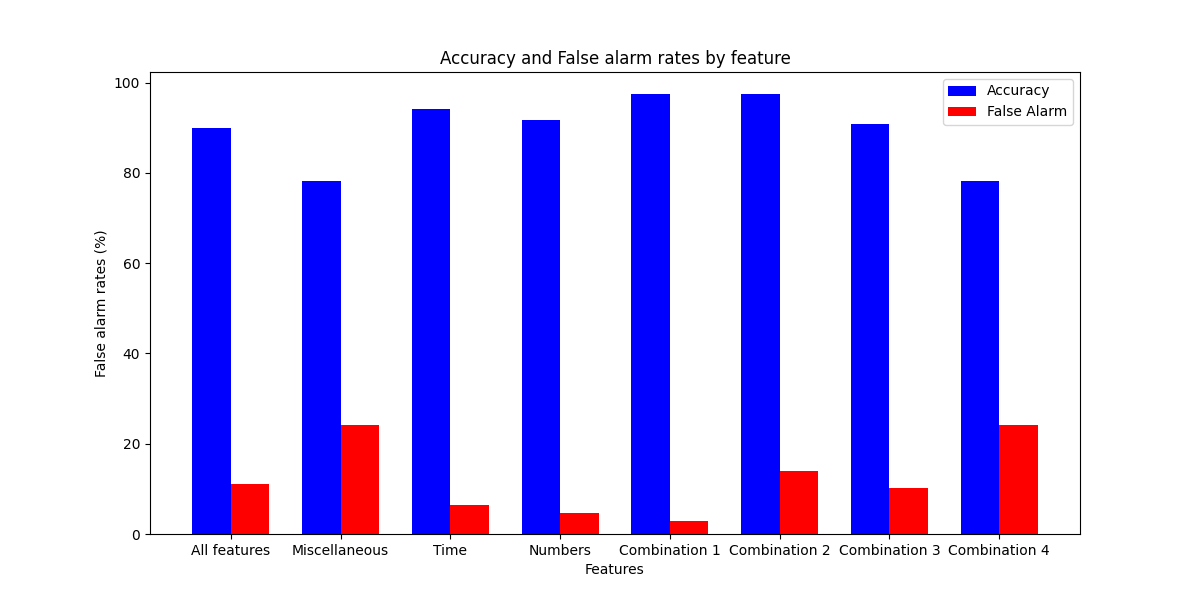
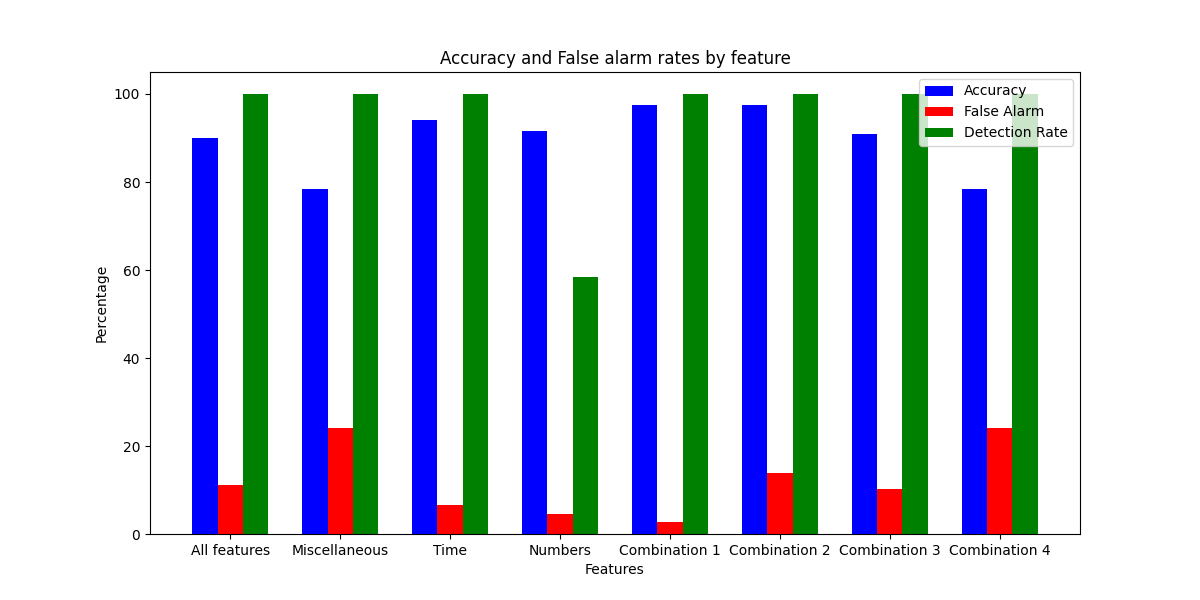
[ADD] feature selections, adding detection rate on diagram

diff --git a/scripts/train.py b/scripts/train.py
@@ -21,6 +21,13 @@ from sklearn.naive_bayes import GaussianNB
 from sklearn.manifold import TSNE
 import matplotlib.pyplot as plt
 
+#### ML dependencies feature selection
+from sklearn.feature_selection import SelectKBest
+from sklearn.model_selection import train_test_split
+from sklearn.pipeline import Pipeline
+from sklearn.model_selection import GridSearchCV
+from sklearn.model_selection import StratifiedKFold
+from sklearn.feature_selection import f_classif
 
 #### Importing the utils
 import utils.parsing_dns_trace as parser
@@ -182,7 +189,7 @@ def preprocessing(bots, webclients):
     combined_df = features.convert_to_dataframe_training(bots_data, webclients_data)
     combined_df = features.encoding_features(combined_df)
 
-    X_train = combined_df[constants.LIST_OF_FEATURES_COMBI1]
+    X_train = combined_df[constants.LIST_OF_FEATURES_NUMBERS]
     y_train = combined_df['label']
     
     print(colors.Colors.GREEN + f"Parsed the bots and webclients datasets successfully!\n####\n" + colors.Colors.RESET)
@@ -208,7 +215,9 @@ def main_train(webclients, bots, algorithm, output_path_saved_model):
 
     ## Generating the tsne
     visualization_tsne(X_train, y_train)
-    
+
+    # feature_selection(X_train, y_train)
+
     ## Training the model
     clf = train_model(X_train, y_train, algorithm) 
     
@@ -216,6 +225,37 @@ def main_train(webclients, bots, algorithm, output_path_saved_model):
     saving_and_loading.save_trained_model(clf, algorithm, output_path_saved_model)
     
     return clf
+
+def feature_selection(X_train, y_train): 
+    """
+    Feature selection using SelectKBest.
+
+    This fucntion is not used at the moment in the project, but it WAS used to try to select the best feature but unluckily the feature selected by the SelectKBest made the model overfit and so less accurate on the evaluation datasets  
+
+    Model Accuracy: 1.0
+    Selected Feature Indices: [0 2 5 6 7]
+    Selected Feature Names: ['average_of_request_length_encoded', 'type_of_requests_queried_by_hosts_encoded', 'average_time_between_requests_encoded', 'frequency_of_repeated_requests_in_a_short_time_frame_encoded', 'average_number_of_dots_in_a_domain_encoded']
+    """
+
+    feature_selection = SelectKBest(f_classif, k=5)
+    pipeline = Pipeline([
+        ('feature_selection', feature_selection),
+        ('classification', GaussianNB())
+    ])
+
+    X_train, X_test, y_train, y_test = train_test_split(X_train, y_train, test_size=0.15)
+
+    pipeline.fit(X_train, y_train)
+
+    score = pipeline.score(X_test, y_test)
+    print(f"Model Accuracy: {score}")
+
+    selected_features = pipeline.named_steps['feature_selection'].get_support(indices=True)
+    print(f"Selected Feature Indices: {selected_features}")
+
+    feature_names = list(X_train.columns[selected_features])
+    print(f"Selected Feature Names: {feature_names}")
+
 
 def visualization_tsne(X, y, perplexity=30):
     """
@@ -238,9 +278,9 @@ def visualization_tsne(X, y, perplexity=30):
 
     plt.figure(figsize=(10, 5))
     plt.scatter(X_tsne[:, 0], X_tsne[:, 1], c=colors)
-    plt.colorbar()  # Shows the color scale.
+    plt.colorbar()
     plt.title('t-SNE visualization of the data')
-    plt.savefig(f"./visualization_tsne_dataset.png")
+    plt.savefig(f"../diagrams/visualization/visualization_tsne_dataset.png")
     
 
 def getting_args():

diff --git a/scripts/utils/diagrams/diagrams_metrics.py b/scripts/utils/diagrams/diagrams_metrics.py
@@ -73,7 +73,7 @@ def diagram_features_TP_TN_FP_FN(eval_number): # Graph 1 in the report
     plt.tight_layout(rect=[0, 0.03, 1, 0.95])
 
     # Show the plots
-    plt.savefig(f"../../../diagrams/metrics/1_graph/diagram_features_TP_TN_FP_FN_{eval_number}.png")
+    plt.savefig(f"../../../diagrams/metrics/features_TP_TN_FP_FN/diagram_features_TP_TN_FP_FN_{eval_number}.png")
     
     
     
@@ -120,7 +120,7 @@ def diagram_features_TP_TN_FP_FN(eval_number): # Graph 1 in the report
 #     plt.xlabel('Features')
 #     plt.ylabel('Bayesian Detection Rate (%)')
 
-#     plt.savefig(f"../../../diagrams/metrics/2_graph/diagram_features_bayesian_rate_{eval_number}.png")
+#     plt.savefig(f"../../../diagrams/metrics/bayesian_detection_rate/diagram_features_bayesian_rate_{eval_number}.png")
 
     
 def diagram_accuracy_false_alarm_rate(eval_number): # Graph 3 in the report
@@ -136,30 +136,33 @@ ordonné : 0 à 100%
     if eval_number == "eval1":
         accuracy_rates = [90, 78.3, 94.16, 91.66, 97.5, 97.5, 90.83, 78.33]
         false_alarm_rates = [11.11, 24.07, 6.48, 4.63, 2.77, 13.88, 10.18, 24.07]
+        detection_rate = [100, 100, 100, 58.33, 100, 100, 100, 100]
     elif eval_number == "eval2":
         accuracy_rates = [78.3, 84.16, 35.0, 85.83, 84.17, 78.33, 83.33, 35.0]
         false_alarm_rates = [15.7, 6.48, 68.52, 6.48, 8.33, 16.67, 9.26, 68.52]
+        detection_rate = [25, 0, 66.67, 16.67, 16.67, 33.33, 16.67, 66.67]
   
     # Set up the plot
     fig, ax = plt.subplots(figsize=(12, 6))
 
     # Define the width of a bar and positions
-    bar_width = 0.35
+    bar_width = 0.23
     indices = np.arange(len(feature_combination))
 
     # Plotting both accuracy and false alarm rates
     bar1 = ax.bar(indices, accuracy_rates, bar_width, label='Accuracy', color='blue')
     bar2 = ax.bar(indices + bar_width, false_alarm_rates, bar_width, label='False Alarm', color='red')
+    bar3 = ax.bar(indices + bar_width*2, detection_rate, bar_width, label='Detection Rate', color='green')
 
     # Set the title and labels
     ax.set_title('Accuracy and False alarm rates by feature')
     ax.set_xlabel('Features')
-    ax.set_ylabel('False alarm rates (%)')
-    ax.set_xticks(indices + bar_width / 2)
+    ax.set_ylabel('Percentage')
+    ax.set_xticks(indices + bar_width)
     ax.set_xticklabels(feature_combination)
     ax.legend()
 
-    plt.savefig(f"../../../diagrams/metrics/3_graph/diagram_features_accuracy_false_alarm_rate_{eval_number}.png")
+    plt.savefig(f"../../../diagrams/metrics/accuracy_false_alarm_rate/diagram_features_accuracy_false_alarm_rate_{eval_number}.png")
     
 def main_diagrams_metrics():
     

diff --git a/scripts/utils/constants.py b/scripts/utils/constants.py
@@ -94,6 +94,15 @@ LIST_OF_FEATURES_COMBI4 = [
                     ]
 
 
+LIST_OF_FEATURES_AFTER_FEATURE_SELECTION = [
+                    'average_of_request_length_encoded', 
+                    'type_of_requests_queried_by_hosts_encoded', 
+                    'average_time_between_requests_encoded', 
+                    'frequency_of_repeated_requests_in_a_short_time_frame_encoded', 
+                    'average_number_of_dots_in_a_domain_encoded'
+                    ]
+
+
 
 #######################################
 ## Constants for the features

diff --git a/scripts/eval.py b/scripts/eval.py
@@ -59,7 +59,7 @@ def preprocessing(path_to_eval_dataset, algorithm):
 
     combined_df = features.encoding_features(combined_df)
 
-    X_test = combined_df[constants.LIST_OF_FEATURES_COMBI1]
+    X_test = combined_df[constants.LIST_OF_FEATURES_NUMBERS]
     y_test = combined_df['label']
     hosts_list = combined_df['host']
 
